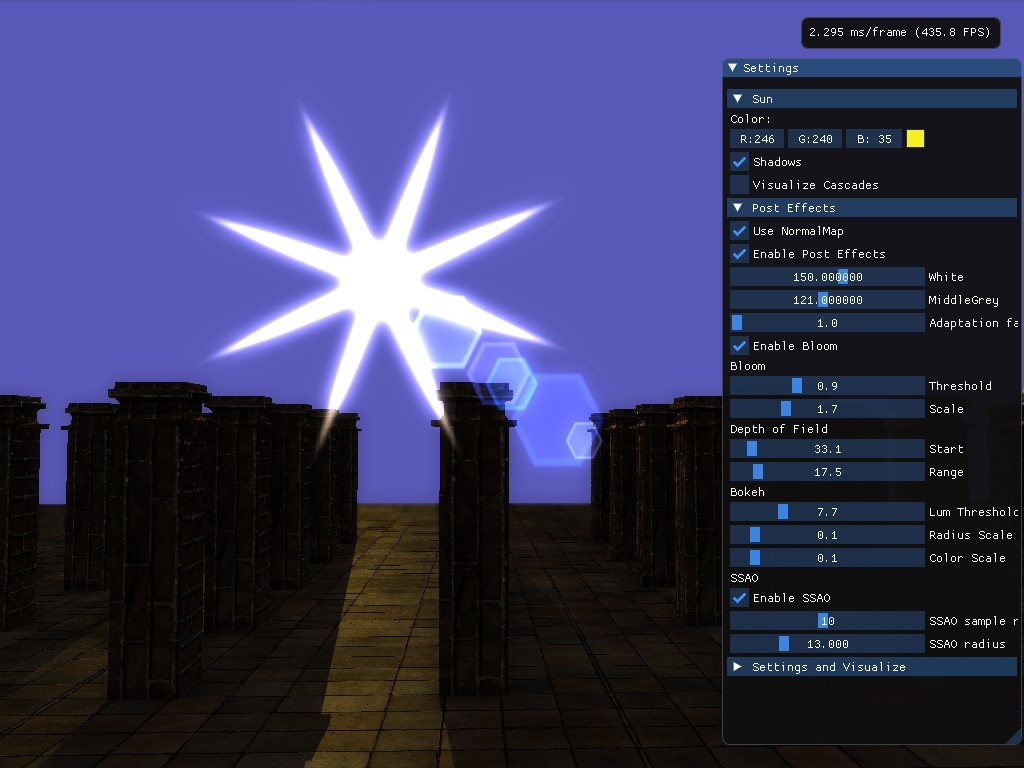
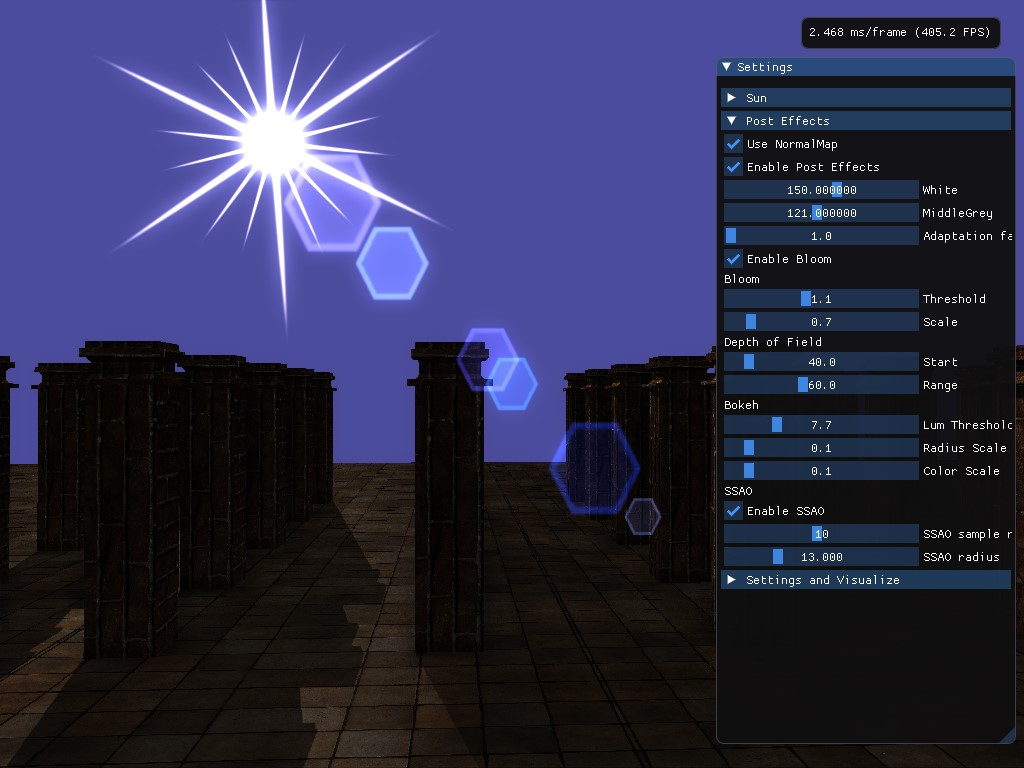
sun corona flare to array

diff --git a/EffectsRendering/Renderer/LensflareManager.cpp b/EffectsRendering/Renderer/LensflareManager.cpp
@@ -141,6 +141,13 @@ HRESULT LensflareManager::Init(ID3D11Device* device)
 	mArrFlares[9].fScale = 0.1f;
 	mArrFlares[9].Color = Vector4(0.23f, 0.21, 0.44, 0.85f);
 
+	mArrCorona[0].fScale = 0.048f;
+	mArrCorona[0].Color = Vector4(0.2f, 0.18f, 0.15f, 0.25f);
+	mArrCorona[1].fScale = 0.045f;
+	mArrCorona[1].Color = Vector4(0.2f, 0.18f, 0.15f, 0.25f);
+	mArrCorona[2].fScale = 0.078f;
+	mArrCorona[2].Color = Vector4(0.2f, 0.18f, 0.15f, 0.25f);
+
 	return hr;
 }
 
@@ -213,15 +220,16 @@ void LensflareManager::Render(ID3D11DeviceContext* pd3dImmediateContext, Camera*
 	{
 		pCB[j].Position = Vector4(mSunPos2D.x, mSunPos2D.y, 0.0f, 0.0f);
 
-		float fSin = sinf(mCoronaRotation + static_cast<float>(j) * M_PI / mTotalCoronaFlares + M_PI / 5.0f);
-		float fCos = cosf(mCoronaRotation + static_cast<float>(j) * M_PI / mTotalCoronaFlares + M_PI / 5.0f);
+		float fSin = sinf(mCoronaRotation + static_cast<float>(j) * M_PI / 9.0f + M_PI / 5.0f);
+		float fCos = cosf(mCoronaRotation + static_cast<float>(j) * M_PI / 9.0f + M_PI / 5.0f);
 		const float coronaWidthScale = 5.0f;
-		const float coronaHeightScale = 0.25f;
-		float fScaleX = mArrFlares[j].fScale * coronaWidthScale;
-		float fScaleY = mArrFlares[j].fScale * coronaHeightScale;
+		const float coronaHeightScale = 0.15f;
+		int i = j % 3;
+		float fScaleX = mArrCorona[i].fScale * coronaWidthScale;
+		float fScaleY = mArrCorona[i].fScale * coronaHeightScale;
 		pCB[j].ScaleRotate = Vector4(fScaleX * fCos, fScaleY * -fSin, fScaleX * fSin * camera->GetAspect(), fScaleY * fCos * camera->GetAspect());
 
-		pCB[j].Color = mArrFlares[j].Color * mSunVisibility;
+		pCB[j].Color = mArrCorona[i].Color * mSunVisibility;
 	}
 	pd3dImmediateContext->Unmap(mLensflareCB, 0);
 

diff --git a/EffectsRendering/Renderer/LensflareManager.h b/EffectsRendering/Renderer/LensflareManager.h
@@ -23,8 +23,8 @@ public:
 	void EndSunVisibility(ID3D11DeviceContext* pd3dImmediateContext);
 
 	static const int mTotalLights = 1;
-	static const int mTotalCoronaFlares = 8;
-	static const int mTotalFlares = 8;
+	static const int mTotalCoronaFlares = 9;
+	static const int mTotalFlares = 10;
 
 private:
 
@@ -53,6 +53,13 @@ private:
 		Vector4 Color;
 	} FLARE;
 	FLARE mArrFlares[mTotalFlares];
+
+	typedef struct
+	{
+		float fScale;
+		Vector4 Color;
+	} CORONA;
+	CORONA mArrCorona[3];
 
 	// Rotate the corona over time
 	float mCoronaRotation;
